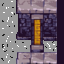
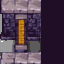
Images

diff --git a/src/view/ressources/ImageRessources.java b/src/view/ressources/ImageRessources.java
@@ -19,13 +19,14 @@ public class ImageRessources {
     public final static Image IMAGE_MOUSE = new Image("assets/images/characters/cat.gif");
 
     // - Enemies -
-    public final static Image IMAGE_ACCOUNT_GUY = new Image("assets/images/characters/ZombiNazi.png");
-    public final static Image IMAGE_NAZI_ZOMBIE = new Image("assets/images/characters/ZombiNazi.png");
-    public final static Image IMAGE_BOSS = new Image("assets/images/characters/ZombiNazi.png");
+    public final static Image IMAGE_ACCOUNT_GUY = new Image("assets/images/characters/AccountGuyDefault.png");
+    public final static Image IMAGE_NAZI_ZOMBIE = new Image("assets/images/characters/NaziZombieDefault.png");
+    public final static Image IMAGE_BOSS = new Image("assets/images/characters/BossDefault.png");
 
     // - Objects -
     public final static Image IMAGE_BANANA = new Image("assets/images/objects/Banana.png");
     public final static Image IMAGE_BESCHERELLE = new Image("assets/images/objects/Bescherelle.png");
+    public final static Image IMAGE_CAT_BESCHERELLE  = new Image("assets/images/objects/CatBescherelle.png");
     public final static Image IMAGE_TORCH = new Image("assets/images/place/Torch.gif");
     public final static Image IMAGE_NAZIS_POSTER = new Image("assets/images/objects/NazisPoster.png");
     public final static Image IMAGE_FLINT = new Image("assets/images/objects/Flint.png");
@@ -39,7 +40,7 @@ public class ImageRessources {
     public final static Image IMAGE_DOOR_UP = new Image("assets/images/place/BasicDoorUp.png");
     public final static Image IMAGE_DOOR_LEFT = new Image("assets/images/place/BasicDoorLeft.png");
     public final static Image IMAGE_DOOR_RIGHT = new Image("assets/images/place/BasicDoorRight.png");
-    public final static Image IMAGE_DOOR_DOWN = new Image("assets/images/place/BasicDoorDown.jpg");
+    public final static Image IMAGE_DOOR_DOWN = new Image("assets/images/place/BasicDoorDown.png");
 
 
 }

diff --git a/src/view/ressources/GameRessources.java b/src/view/ressources/GameRessources.java
@@ -31,9 +31,9 @@ public class GameRessources {
     public final static MyImageView MOUSE_IM = new MyImageView(MOUSE, IMAGE_MOUSE, 7, 6, 45);
 
     // Enemies
-    public final static MyImageView ACCOUNT_GUY_IM = new MyImageView(MEETING_ROOM.getEnemy(), IMAGE_NAZI_ZOMBIE, 2, 6);
+    public final static MyImageView ACCOUNT_GUY_IM = new MyImageView(MEETING_ROOM.getEnemy(), IMAGE_ACCOUNT_GUY, 2, 6);
     public final static MyImageView NAZI_ZOMBIE_IM = new MyImageView(DESERTED_ROOM.getEnemy(), IMAGE_NAZI_ZOMBIE, 2, 6);
-    public final static MyImageView BOSS_IM = new MyImageView(EXIT.getEnemy(), IMAGE_NAZI_ZOMBIE, 2, 6);
+    public final static MyImageView BOSS_IM = new MyImageView(EXIT.getEnemy(), IMAGE_BOSS, 2, 6);
 
     // Objects
     public final static MyImageView NAZI_POSTER_IM = new MyImageView(NAZI_POSTER, IMAGE_NAZIS_POSTER, 3, 0, 40);
@@ -43,7 +43,7 @@ public class GameRessources {
     public final static MyImageView STICK_IM = new MyImageView(STICK, IMAGE_STICK, 3, 1, 40);
     public final static MyImageView FLINT_IM = new MyImageView(FLINT, IMAGE_FLINT, 7, 4, 40);
     public final static MyImageView FUSE_IM = new MyImageView(FUSE, IMAGE_HEART, 7, 7, 40);
-    public final static MyImageView CAT_B_IM = new MyImageView(CAT_B, IMAGE_BESCHERELLE, 3, 7, 40);
+    public final static MyImageView CAT_B_IM = new MyImageView(CAT_B, IMAGE_CAT_BESCHERELLE, 3, 7, 40);
     public final static MyImageView MOUSE_B_IM =new MyImageView(MOUSE_B, IMAGE_BESCHERELLE, 6, 1, 40);
     public final static MyImageView MONKEY_B_IM = new MyImageView(MONKEY_B, IMAGE_BESCHERELLE, 5, 1, 40);
     public final static MyImageView K_1_IM = new MyImageView(K_1, IMAGE_HEART, 0, 0, 40);
